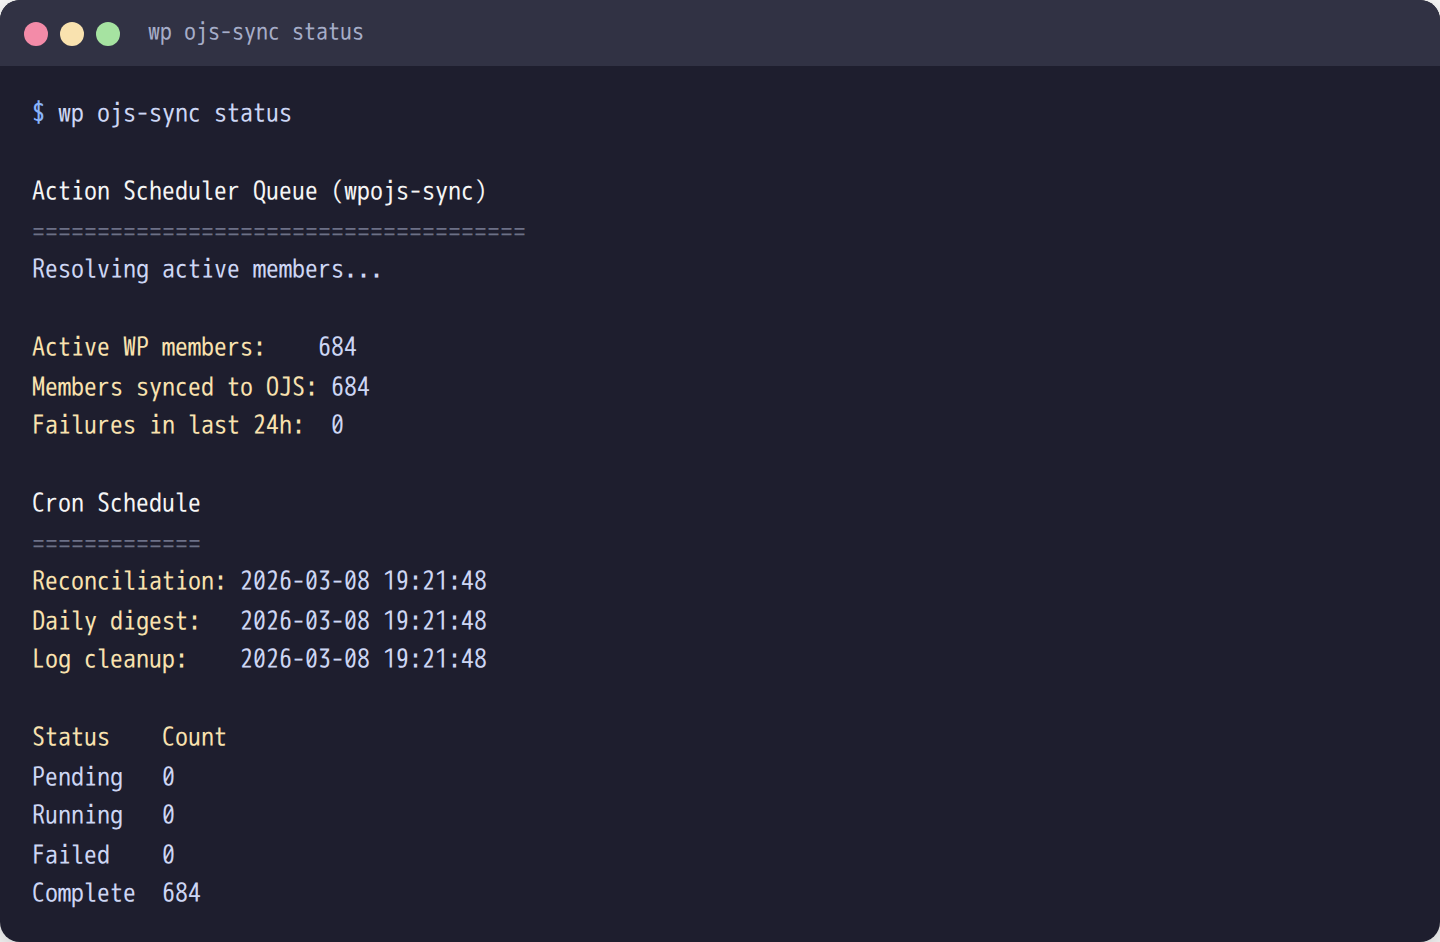
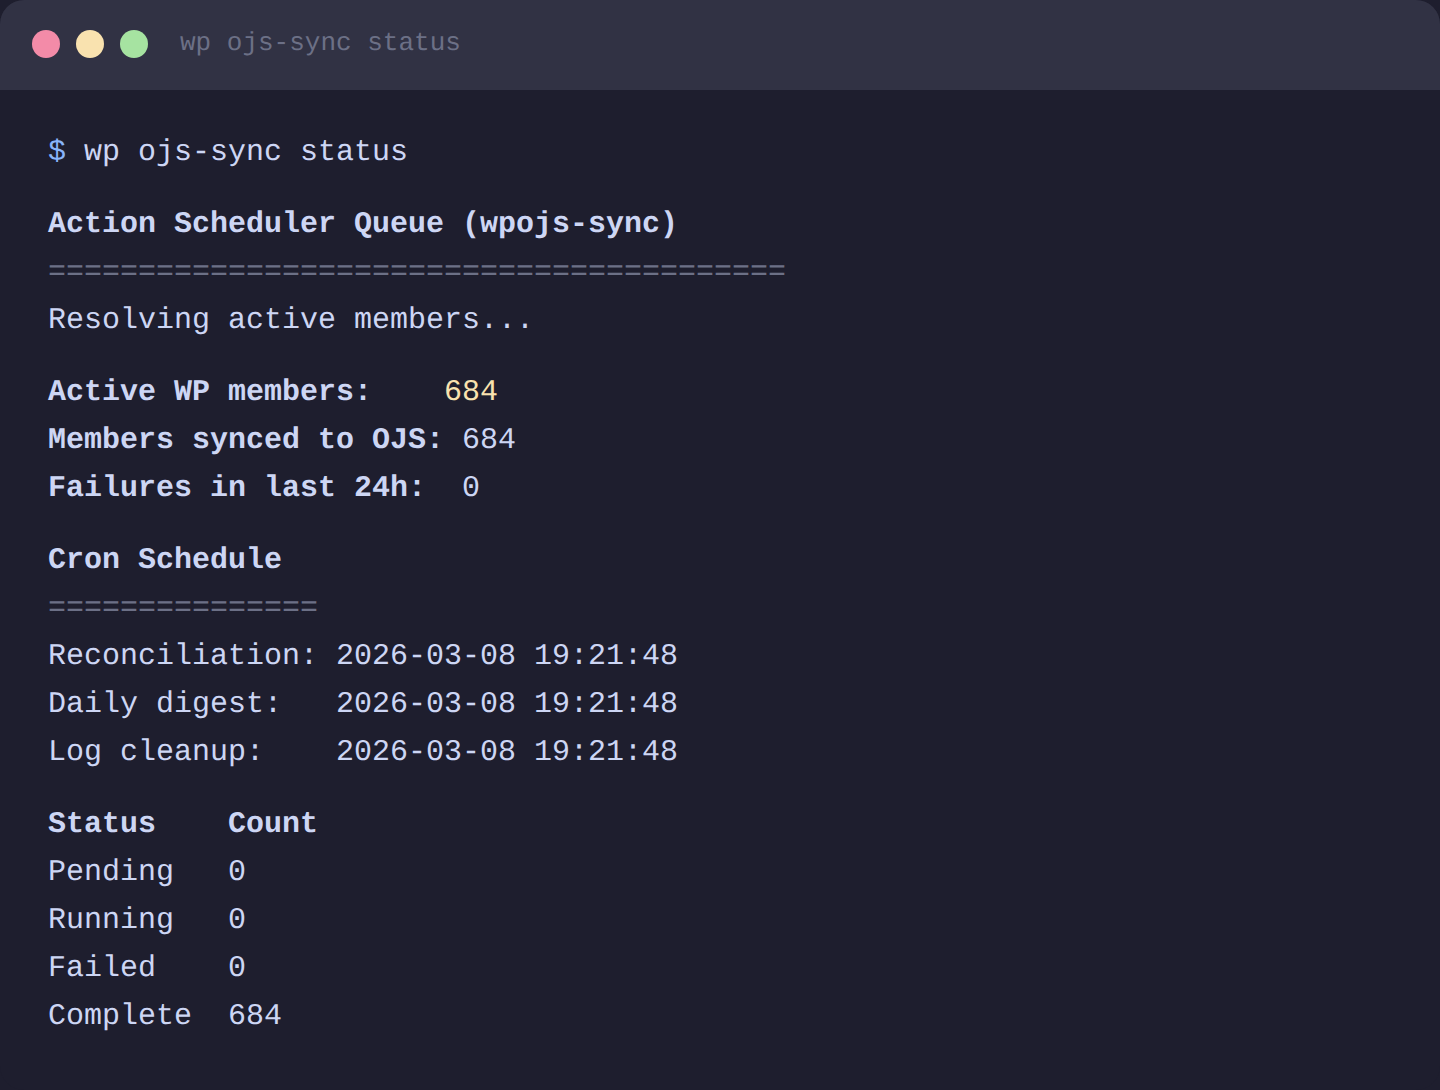
Add CLI screenshot generator script, update CLAUDE.md
Persist render-cli-screenshots.js (was in /tmp, lost on rebuild).
Generates all 4 CLI doc screenshots via Playwright + Catppuccin Mocha
theme. Add missing --env-file flag to deploy.sh docs in CLAUDE.md.

diff --git a/scripts/render-cli-screenshots.js b/scripts/render-cli-screenshots.js
@@ -1,0 +1,230 @@
+#!/usr/bin/env node
+/**
+ * Generates styled terminal screenshots for CLI documentation.
+ *
+ * Uses HTML+CSS rendered via Playwright — no actual CLI execution needed.
+ * Content is representative mock output, not literal captures.
+ *
+ * Usage:
+ *   node scripts/render-cli-screenshots.js              # all screenshots
+ *   node scripts/render-cli-screenshots.js test-connection  # one screenshot
+ *
+ * Output: docs/images/cli-{name}.png
+ *
+ * Theme: Catppuccin Mocha
+ * Retina: deviceScaleFactor 2
+ */
+
+const { chromium } = require('playwright');
+const path = require('path');
+
+const OUTPUT_DIR = path.join(__dirname, '..', 'docs', 'images');
+
+// --- Catppuccin Mocha palette ---
+const theme = {
+  bg:      '#1e1e2e',
+  header:  '#313244',
+  text:    '#cdd6f4',
+  blue:    '#89b4fa',
+  green:   '#a6e3a1',
+  yellow:  '#f9e2af',
+  red:     '#f38ba8',
+  pink:    '#f5c2e7',
+  gray:    '#6c7086',
+  white:   '#cdd6f4',
+  dotRed:  '#f38ba8',
+  dotYellow: '#f9e2af',
+  dotGreen:  '#a6e3a1',
+};
+
+const CSS = `
+  * { margin: 0; padding: 0; box-sizing: border-box; }
+  body { background: ${theme.bg}; padding: 0; }
+  .terminal {
+    font-family: 'SF Mono', 'Menlo', 'Monaco', 'Courier New', monospace;
+    font-size: 15px;
+    line-height: 1.6;
+    color: ${theme.text};
+    background: ${theme.bg};
+    border-radius: 12px;
+    overflow: hidden;
+    display: inline-block;
+    min-width: 720px;
+    max-width: 820px;
+  }
+  .header {
+    background: ${theme.header};
+    padding: 12px 16px;
+    display: flex;
+    align-items: center;
+    gap: 8px;
+  }
+  .dot { width: 14px; height: 14px; border-radius: 50%; }
+  .dot-red { background: ${theme.dotRed}; }
+  .dot-yellow { background: ${theme.dotYellow}; }
+  .dot-green { background: ${theme.dotGreen}; }
+  .header-title {
+    margin-left: 8px;
+    color: ${theme.gray};
+    font-size: 13px;
+  }
+  .body { padding: 20px 24px 24px; }
+  .line { white-space: pre; }
+  .prompt { color: ${theme.blue}; }
+  .success { color: ${theme.green}; }
+  .label { color: ${theme.yellow}; }
+  .error { color: ${theme.red}; }
+  .dim { color: ${theme.gray}; }
+  .bold { color: ${theme.white}; font-weight: 600; }
+  .pink { color: ${theme.pink}; }
+  .line { min-height: 1.6em; }
+  .blank { height: 0.8em; }
+`;
+
+function html(title, bodyContent) {
+  return `<!DOCTYPE html>
+<html><head><style>${CSS}</style></head>
+<body>
+<div class="terminal">
+  <div class="header">
+    <div class="dot dot-red"></div>
+    <div class="dot dot-yellow"></div>
+    <div class="dot dot-green"></div>
+    <span class="header-title">${title}</span>
+  </div>
+  <div class="body">${bodyContent}</div>
+</div>
+</body></html>`;
+}
+
+function line(content, cls) {
+  if (!content) return '<div class="blank"></div>';
+  if (cls) return `<div class="line ${cls}">${content}</div>`;
+  return `<div class="line">${content}</div>`;
+}
+
+// --- Screenshot definitions ---
+
+const screenshots = {
+  'test-connection': {
+    title: 'wp ojs-sync test-connection',
+    body: () => [
+      line('<span class="prompt">$</span> wp ojs-sync test-connection'),
+      line(),
+      line('<span class="bold">OJS URL:</span> http://ojs.example.com/index.php/journal'),
+      line('<span class="bold">API Key:</span> Configured'),
+      line(),
+      line('<span class="bold">Step 1: Ping</span> <span class="dim">(reachability, no auth)...</span>'),
+      line('  <span class="success">OK:</span> OJS is reachable.'),
+      line('<span class="bold">Step 2: Preflight</span> <span class="dim">(auth + IP + compatibility)...</span>'),
+      line('  <span class="success">OK:</span> Authenticated, IP allowed, and compatible.'),
+      line('      <span class="success">OK:</span> <span class="dim">Repo::user()-&gt;getByEmail()</span>'),
+      line('      <span class="success">OK:</span> <span class="dim">Repo::user()-&gt;newDataObject()</span>'),
+      line('      <span class="success">OK:</span> <span class="dim">IndividualSubscriptionDAO::insertObject()</span>'),
+      line('      <span class="success">OK:</span> <span class="dim">SubscriptionTypeDAO::getById()</span>'),
+      line('          <span class="dim">... 15 more checks passed</span>'),
+      line(),
+      line('<span class="success">Success:</span> Connection test passed. OJS is ready for sync.'),
+    ].join('\n'),
+  },
+
+  'sync': {
+    title: 'wp ojs-sync sync',
+    body: () => [
+      line('<span class="prompt">$</span> wp ojs-sync sync --member=jane.smith@example.com'),
+      line(),
+      line('<span class="success">Success:</span> Synced: jane.smith@example.com -&gt; OJS user 42, subscription 38'),
+      line(),
+      line('<span class="prompt">$</span> wp ojs-sync sync --bulk --dry-run'),
+      line(),
+      line('<span class="bold">Bulk sync dry run</span>'),
+      line('Resolving active members...'),
+      line('Found <span class="label">684</span> active members to sync.'),
+      line(),
+      line('<span class="dim">[dry-run]</span> Would sync <span class="bold">jane.smith@example.com</span> <span class="dim">(new user)</span>'),
+      line('<span class="dim">[dry-run]</span> Would sync <span class="bold">bob.jones@example.com</span> <span class="dim">(existing, update subscription)</span>'),
+      line('<span class="dim">[dry-run]</span> Would sync <span class="bold">alice.wu@example.com</span> <span class="dim">(new user)</span>'),
+      line('    <span class="dim">... 681 more members</span>'),
+      line(),
+      line('<span class="success">Dry run complete.</span> 684 members would be synced (412 new, 272 update).'),
+    ].join('\n'),
+  },
+
+  'status': {
+    title: 'wp ojs-sync status',
+    body: () => [
+      line('<span class="prompt">$</span> wp ojs-sync status'),
+      line(),
+      line('<span class="bold">Action Scheduler Queue (wpojs-sync)</span>'),
+      line('<span class="dim">=========================================</span>'),
+      line('Resolving active members...'),
+      line(),
+      line('<span class="bold">Active WP members:</span>    <span class="label">684</span>'),
+      line('<span class="bold">Members synced to OJS:</span> 684'),
+      line('<span class="bold">Failures in last 24h:</span>  0'),
+      line(),
+      line('<span class="bold">Cron Schedule</span>'),
+      line('<span class="dim">===============</span>'),
+      line('Reconciliation: 2026-03-08 19:21:48'),
+      line('Daily digest:   2026-03-08 19:21:48'),
+      line('Log cleanup:    2026-03-08 19:21:48'),
+      line(),
+      line('<span class="bold">Status    Count</span>'),
+      line('Pending   0'),
+      line('Running   0'),
+      line('Failed    0'),
+      line('Complete  684'),
+    ].join('\n'),
+  },
+
+  'reconcile': {
+    title: 'wp ojs-sync reconcile',
+    body: () => [
+      line('<span class="prompt">$</span> wp ojs-sync reconcile'),
+      line(),
+      line('<span class="bold">Running reconciliation...</span>'),
+      line('Resolving active members <span class="dim">(this may take a few minutes)</span>...'),
+      line('Checking <span class="label">684</span> members in batches of 100...'),
+      line(),
+      line('  <span class="label">Queued activate</span> for <span class="bold">bob.jones@example.com</span> <span class="dim">(no active OJS subscription)</span>'),
+      line('  <span class="label">Queued activate</span> for <span class="bold">sarah.lee@example.com</span> <span class="dim">(no active OJS subscription)</span>'),
+      line('  <span class="label">Queued expire</span> for <span class="bold">old.member@example.com</span> <span class="dim">(WP subscription cancelled)</span>'),
+      line(),
+      line('<span class="success">Reconciliation complete.</span>'),
+      line('  Checked: <span class="label">684</span> members'),
+      line('  Queued:  <span class="label">3</span> actions (2 activate, 1 expire)'),
+      line('  OK:      681 already in sync'),
+    ].join('\n'),
+  },
+};
+
+async function render(name, spec) {
+  const browser = await chromium.launch();
+  const page = await browser.newPage({ deviceScaleFactor: 2 });
+  const content = html(spec.title, spec.body());
+  await page.setContent(content, { waitUntil: 'domcontentloaded' });
+
+  const terminal = await page.$('.terminal');
+  const outPath = path.join(OUTPUT_DIR, `cli-${name}.png`);
+  await terminal.screenshot({ path: outPath });
+  console.log(`  ${outPath}`);
+  await browser.close();
+}
+
+async function main() {
+  const filter = process.argv[2];
+  const names = filter ? [filter] : Object.keys(screenshots);
+
+  console.log('Rendering CLI screenshots...');
+  for (const name of names) {
+    if (!screenshots[name]) {
+      console.error(`Unknown screenshot: ${name}`);
+      console.error(`Available: ${Object.keys(screenshots).join(', ')}`);
+      process.exit(1);
+    }
+    await render(name, screenshots[name]);
+  }
+  console.log('Done.');
+}
+
+main().catch(err => { console.error(err); process.exit(1); });

diff --git a/CLAUDE.md b/CLAUDE.md
@@ -90,7 +90,7 @@ Primary integration: hook into **WooCommerce Subscriptions** status events (`woo
 - **`scripts/setup-dev.sh`** — thin shim, runs `setup.sh --env=dev`. Kept for backwards compatibility.
 - **Why two scripts?** Docker-in-Docker in the devcontainer requires a hardcoded host path for `--project-directory`. `rebuild-dev.sh` bakes this in. `setup.sh --env=dev` is the portable inner script. Staging/prod use plain `docker compose` on the VPS.
 - **`scripts/init-vps.sh`** — one-time VPS setup (Hetzner): creates server, firewall, SSH config. Run once per server.
-- **`scripts/deploy.sh`** — deploys code to a VPS via SSH: git pull, build images, start containers, run setup. Run every time you ship code. Flags: `--host`, `--provision`, `--skip-setup`, `--skip-build`, `--ref`, `--clean`.
+- **`scripts/deploy.sh`** — deploys code to a VPS via SSH: git pull, build images, start containers, run setup. Run every time you ship code. Flags: `--host`, `--provision`, `--skip-setup`, `--skip-build`, `--ref`, `--clean`, `--env-file`.
 - **`scripts/smoke-test.sh`** — lightweight staging/prod health checks via SSH (curl + WP-CLI). No Node/Playwright needed on VPS.
 - **`scripts/load-test.sh`** — performance tests using `hey` with server resource monitoring.
 - **Post-rebuild prompt:** `docs/private/claude-dev-setup-prompt.md` — copy-paste prompt for a fresh Claude session after devcontainer rebuild.
